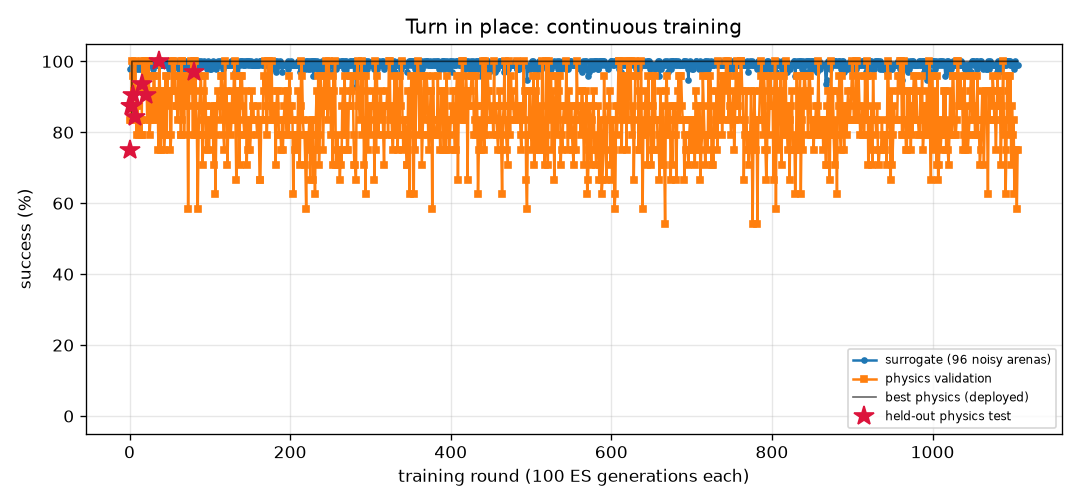
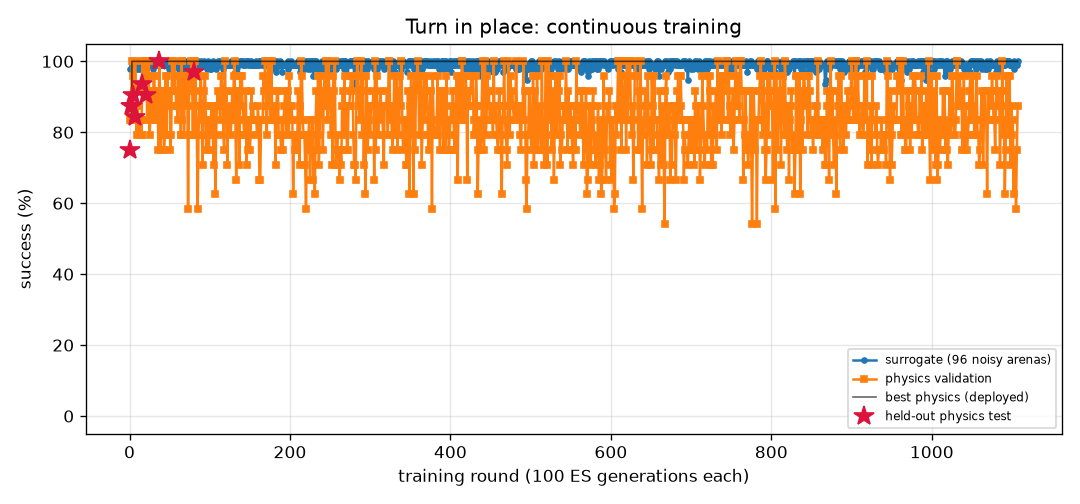
FlyLab: continuous training progress
- walk_forward: optimal, physics val 100% of 24, round 405
- turn: optimal, physics val 100% of 24, round 1107
- goto: optimal, physics val 100% of 24, round 313
- odor_seek: optimal, physics val 100% of 24, round 254
- odor_avoid: optimal, physics val 100% of 24, round 961
- light_seek: optimal, physics val 100% of 24, round 514
- light_avoid: optimal, physics val 100% of 24, round 680

diff --git a/projects/09_flylab/training/light_avoid/REPORT.md b/projects/09_flylab/training/light_avoid/REPORT.md
@@ -1,14 +1,14 @@
 # Hide from light (`light_avoid`) — training report
 
-*Auto-generated by `train_brains.py`, last updated 2026-11-16T20:20:34.*
+*Auto-generated by `train_brains.py`, last updated 2026-11-17T22:11:09.*
 
 ![curve](curve.png)
 
 | | |
 |---|---|
-| rounds | 674 |
-| ES generations | 67400 |
-| physics runs | 16448 |
+| rounds | 680 |
+| ES generations | 68000 |
+| physics runs | 16592 |
 | status | **optimal** |
 | best brain | round 159: physics validation **100%** on 24 arenas, surrogate 100% |
 | held-out physics test | **100%** on 32 unseen arenas (95% CI 89%-100%) (errors: [14.4, 56.1, 58.0, 57.9, 57.5, 14.0, 14.4, 56.6, 56.8, 13.3, 14.1, 56.6, 57.6, 13.1, 57.3, 55.9, 57.2, 55.0, 55.2, 53.9, 55.2, 12.4, 53.8, 53.7, 14.1, 13.7, 55.0, 57.8, 56.2, 13.1, 52.8, 56.5]) |
@@ -17,12 +17,6 @@ Physics error per arena: mm gained away from source (> 6 without first approachi
 
 | round | level | gens | sigma | surrogate | physics val | val errors | test | note |
 |---:|---:|---:|---:|---:|---:|---|---:|---|
-| 635 | 3 | 63500 | 0.025 | 97% | 96% | [49.8, 51.0, 50.9, 48.6, 49.5, 48.7, 49.9, 14.5, 13.0, 13.4, 10.3, 49.2, 14.4, 8.0, 50.8, 49.3, 14.2, 49.9, 51.2, 14.4, 48.8, 11.3, 49.6, 48.4] |  | restart from best |
-| 636 | 3 | 63600 | 0.024 | 100% | 100% | [51.2, 52.5, 52.3, 51.2, 52.4, 51.7, 50.6, 14.5, 48.7, 13.2, 52.0, 52.2, 14.4, 51.7, 52.4, 51.0, 14.2, 52.7, 52.8, 14.4, 49.6, 52.1, 50.5, 51.7] |  |  |
-| 637 | 3 | 63700 | 0.024 | 100% | 100% | [43.7, 46.3, 46.3, 45.5, 48.5, 45.3, 43.8, 14.5, 48.1, 13.2, 48.7, 48.9, 14.4, 48.2, 46.2, 45.0, 14.2, 48.4, 46.4, 14.4, 44.8, 49.3, 44.1, 48.5] |  |  |
-| 638 | 3 | 63800 | 0.024 | 100% | 100% | [33.4, 32.5, 31.0, 34.7, 34.6, 34.0, 30.7, 14.5, 12.6, 13.3, 38.2, 34.3, 14.4, 36.4, 32.7, 36.6, 14.2, 34.9, 32.5, 14.4, 35.9, 36.7, 29.7, 34.6] |  |  |
-| 639 | 3 | 63900 | 0.024 | 99% | 100% | [38.8, 39.9, 38.9, 42.0, 42.7, 39.2, 36.6, 14.5, 13.0, 13.4, 43.0, 42.8, 14.4, 43.1, 39.8, 41.4, 14.2, 43.1, 38.8, 14.4, 37.9, 43.2, 37.8, 43.2] |  | restart from best |
-| 640 | 3 | 64000 | 0.024 | 100% | 100% | [46.1, 49.8, 49.5, 47.3, 50.5, 48.2, 47.9, 14.5, 46.6, 13.4, 49.1, 50.5, 14.4, 49.1, 49.6, 48.0, 14.2, 50.8, 49.8, 14.4, 47.1, 48.9, 48.1, 50.1] |  |  |
 | 641 | 3 | 64100 | 0.024 | 100% | 100% | [53.5, 55.6, 55.3, 53.5, 54.9, 54.0, 54.0, 14.5, 52.3, 13.1, 54.9, 54.6, 14.4, 53.2, 55.4, 52.9, 14.2, 55.3, 55.7, 14.4, 52.4, 54.4, 53.9, 54.1] |  |  |
 | 642 | 3 | 64200 | 0.024 | 100% | 100% | [54.9, 56.3, 56.0, 54.9, 56.0, 55.2, 54.8, 14.5, 52.4, 13.2, 55.7, 55.9, 14.4, 55.4, 56.2, 54.8, 14.2, 56.5, 56.6, 14.4, 53.1, 55.9, 54.4, 55.4] |  |  |
 | 643 | 3 | 64300 | 0.024 | 100% | 100% | [42.6, 44.8, 43.4, 44.2, 46.8, 44.2, 42.3, 14.5, 42.7, 13.4, 46.1, 47.1, 14.4, 46.7, 44.5, 45.2, 14.2, 46.7, 44.7, 14.4, 46.4, 46.7, 42.4, 46.9] |  | restart from best |
@@ -57,3 +51,9 @@ Physics error per arena: mm gained away from source (> 6 without first approachi
 | 672 | 3 | 67200 | 0.024 | 100% | 100% | [54.5, 57.4, 57.3, 54.9, 55.3, 55.2, 56.7, 14.5, 48.7, 13.3, 50.2, 54.8, 14.4, 56.0, 57.4, 54.6, 14.2, 55.8, 57.7, 14.4, 53.6, 56.1, 56.4, 54.0] |  |  |
 | 673 | 3 | 67300 | 0.024 | 100% | 100% | [54.3, 53.4, 53.0, 51.4, 55.0, 51.2, 51.3, 14.5, 52.9, 12.7, 55.1, 55.2, 14.4, 53.2, 52.8, 52.1, 14.2, 55.1, 53.0, 14.4, 53.0, 55.3, 51.3, 54.7] |  |  |
 | 674 | 3 | 67400 | 0.024 | 100% | 100% | [57.7, 61.2, 60.9, 57.9, 60.5, 58.7, 59.8, 14.5, 54.7, 13.5, 59.7, 60.3, 14.4, 57.5, 61.1, 57.8, 14.2, 61.0, 61.5, 14.4, 56.8, 59.9, 59.6, 59.7] |  |  |
+| 675 | 3 | 67500 | 0.024 | 100% | 100% | [49.9, 52.8, 52.6, 50.1, 52.4, 51.6, 51.4, 14.5, 48.1, 13.3, 52.5, 52.3, 14.4, 51.1, 52.7, 49.3, 14.2, 53.1, 53.2, 14.4, 48.9, 52.4, 51.3, 51.7] |  | restart from best |
+| 676 | 3 | 67600 | 0.024 | 100% | 100% | [41.9, 44.1, 43.0, 42.9, 45.1, 42.3, 39.1, 14.5, 40.3, 13.5, 44.8, 45.3, 14.4, 44.5, 43.1, 42.5, 14.2, 45.2, 43.3, 14.4, 43.3, 44.9, 41.0, 45.0] |  |  |
+| 677 | 3 | 67700 | 0.024 | 100% | 100% | [53.9, 58.8, 58.5, 54.7, 58.8, 55.5, 57.1, 14.5, 52.5, 13.3, 57.0, 58.6, 14.4, 57.5, 58.9, 53.8, 14.2, 59.2, 59.2, 14.4, 51.9, 57.0, 57.1, 58.1] |  |  |
+| 678 | 3 | 67800 | 0.024 | 100% | 100% | [53.1, 56.4, 56.2, 53.6, 54.7, 54.4, 55.4, 14.5, 51.5, 13.5, 54.8, 54.4, 14.4, 56.1, 56.3, 54.3, 14.2, 55.4, 56.6, 14.4, 53.1, 54.6, 55.0, 53.7] |  |  |
+| 679 | 3 | 67900 | 0.024 | 100% | 100% | [58.1, 59.9, 59.7, 55.7, 59.6, 56.8, 58.5, 14.5, 55.7, 13.3, 59.3, 59.5, 14.4, 56.8, 60.0, 56.6, 14.2, 60.2, 60.4, 14.4, 57.0, 58.8, 58.1, 58.9] |  | restart from best |
+| 680 | 3 | 68000 | 0.024 | 100% | 100% | [56.6, 61.2, 61.0, 58.1, 60.3, 58.1, 59.8, 14.5, 10.0, 13.3, 60.2, 60.1, 14.4, 57.7, 61.1, 58.0, 14.2, 60.9, 61.5, 14.4, 57.6, 60.1, 59.6, 59.4] |  |  |

diff --git a/projects/09_flylab/training/odor_avoid/REPORT.md b/projects/09_flylab/training/odor_avoid/REPORT.md
@@ -1,14 +1,14 @@
 # Escape a bad smell (`odor_avoid`) — training report
 
-*Auto-generated by `train_brains.py`, last updated 2026-11-16T22:49:45.*
+*Auto-generated by `train_brains.py`, last updated 2026-11-17T22:04:00.*
 
 ![curve](curve.png)
 
 | | |
 |---|---|
-| rounds | 955 |
-| ES generations | 95500 |
-| physics runs | 20226 |
+| rounds | 961 |
+| ES generations | 96100 |
+| physics runs | 20370 |
 | status | **optimal** |
 | best brain | round 373: physics validation **100%** on 24 arenas, surrogate 97% |
 | held-out physics test | **97%** on 32 unseen arenas (95% CI 84%-99%) (errors: [62.0, 57.4, 62.6, 61.9, 59.0, 61.6, 56.5, 60.7, 31.7, 60.9, 63.1, 57.1, 61.1, 62.1, 61.5, 60.2, 62.2, 55.2, 62.1, 54.2, 61.3, 62.0, 58.0, 61.9, 59.8, 56.5, 56.3, 56.4, 56.3, 57.7, 61.9, 32.4]) |
@@ -17,12 +17,6 @@ Physics error per arena: mm gained away from source (> 6 without first approachi
 
 | round | level | gens | sigma | surrogate | physics val | val errors | test | note |
 |---:|---:|---:|---:|---:|---:|---|---:|---|
-| 916 | 3 | 91600 | 0.027 | 98% | 100% | [61.1, 59.0, 55.2, 60.3, 59.1, 59.0, 61.7, 58.5, 61.0, 29.8, 28.4, 60.9, 47.0, 53.6, 9.1, 41.7, 61.0, 38.6, 52.4, 56.5, 61.3, 57.3, 59.1, 59.7] |  |  |
-| 917 | 3 | 91700 | 0.025 | 88% | 92% | [61.7, 54.4, 56.4, 54.4, 61.9, 60.4, 60.0, 3.3, 61.1, 52.7, 61.7, 62.3, 52.0, 56.0, 38.7, 62.2, 61.8, 61.4, 55.0, 54.8, 61.9, 15.3, 56.5, 21.1] |  | restart from best |
-| 918 | 3 | 91800 | 0.026 | 94% | 96% | [62.5, 58.3, 56.8, 61.3, 60.5, 60.0, 61.6, 41.4, 61.6, 60.6, 59.8, 61.2, 47.8, 55.7, 36.3, 61.0, 61.5, 57.9, 52.2, 59.4, 61.6, 53.3, 60.2, 52.4] |  |  |
-| 919 | 3 | 91900 | 0.028 | 95% | 96% | [62.4, 60.8, 55.5, 60.1, 60.9, 60.7, 62.1, 62.5, 61.9, 56.7, 50.8, 61.3, 49.4, 55.5, 42.4, 60.2, 61.4, 60.7, 49.3, 57.2, 61.5, 63.1, 60.2, 63.3] |  |  |
-| 920 | 3 | 92000 | 0.027 | 96% | 96% | [63.3, 59.7, 57.0, 59.7, 61.9, 61.5, 60.7, 58.8, 61.1, 60.9, 61.7, 61.0, 54.7, 56.2, 44.5, 61.7, 61.6, 61.3, 55.1, 55.0, 61.7, 60.9, 59.3, 61.6] |  |  |
-| 921 | 3 | 92100 | 0.026 | 96% | 96% | [60.7, 59.0, 55.4, 55.8, 61.8, 60.9, 61.4, 62.2, 61.5, 59.9, 57.8, 61.4, 47.1, 55.1, 26.5, 62.2, 61.1, 60.7, 52.8, 58.1, 61.2, 62.0, 59.6, 63.0] |  | restart from best |
 | 922 | 3 | 92200 | 0.026 | 98% | 96% | [63.9, 61.0, 57.4, 58.2, 62.3, 62.6, 61.8, 56.9, 60.0, 60.6, 62.1, 61.7, 55.1, 58.4, 39.9, 61.2, 62.1, 61.1, 55.1, 57.9, 62.1, 61.5, 59.1, 61.1] |  |  |
 | 923 | 3 | 92300 | 0.025 | 94% | 100% | [62.9, 60.7, 58.4, 61.2, 58.2, 51.8, 61.2, 58.9, 61.5, 34.1, 56.7, 59.6, 52.0, 55.2, 31.0, 60.2, 60.6, 47.2, 52.2, 60.7, 60.3, 46.1, 59.7, 62.4] |  |  |
 | 924 | 3 | 92400 | 0.028 | 95% | 100% | [63.0, 60.6, 58.0, 55.1, 61.5, 62.1, 61.1, 61.8, 60.1, 61.7, 60.9, 60.7, 52.8, 57.8, 50.8, 61.5, 59.5, 61.7, 53.5, 57.6, 60.6, 62.2, 57.9, 60.6] |  |  |
@@ -57,3 +51,9 @@ Physics error per arena: mm gained away from source (> 6 without first approachi
 | 953 | 3 | 95300 | 0.026 | 93% | 100% | [28.2, 53.6, 57.7, 53.5, 61.4, 61.5, 59.6, 61.2, 59.9, 61.9, 59.7, 60.7, 51.8, 56.8, 52.0, 61.6, 60.5, 62.2, 52.3, 54.5, 60.0, 61.6, 57.2, 60.9] |  | restart from best |
 | 954 | 3 | 95400 | 0.026 | 98% | 96% | [62.7, 60.8, 56.3, 59.7, 61.8, 62.0, 62.1, 23.2, 62.0, 52.2, 61.5, 62.0, 55.1, 56.2, 41.0, 61.2, 61.9, 60.8, 55.3, 60.0, 62.4, 54.8, 57.1, 39.1] |  |  |
 | 955 | 3 | 95500 | 0.025 | 94% | 96% | [60.5, 59.3, 56.0, 59.6, 61.7, 60.2, 61.5, 3.8, 61.9, 18.9, 61.3, 61.6, 55.0, 55.8, 51.1, 60.7, 61.8, 59.4, 54.8, 56.8, 61.1, 22.9, 58.8, 17.3] |  |  |
+| 956 | 3 | 95600 | 0.028 | 94% | 96% | [59.8, 59.1, 56.6, 59.5, 62.0, 60.9, 61.0, 61.4, 61.1, 60.6, 61.4, 61.7, 54.8, 56.7, 52.0, 61.2, 61.6, 60.7, 54.2, 55.8, 61.5, 61.8, 59.7, 61.0] |  |  |
+| 957 | 3 | 95700 | 0.028 | 98% | 96% | [62.4, 57.1, 56.6, 59.4, 62.2, 62.4, 60.3, 48.5, 61.6, 62.0, 61.7, 61.3, 52.2, 56.5, 42.9, 61.3, 62.1, 61.6, 52.8, 56.6, 62.0, 62.4, 59.7, 60.5] |  | restart from best |
+| 958 | 3 | 95800 | 0.026 | 97% | 100% | [63.5, 57.7, 58.1, 61.2, 62.6, 61.9, 61.8, 41.7, 60.3, 60.3, 61.8, 61.0, 54.6, 58.3, 38.2, 61.6, 61.9, 60.7, 55.1, 55.3, 61.7, 60.2, 58.4, 58.1] |  |  |
+| 959 | 3 | 95900 | 0.026 | 97% | 96% | [61.1, 58.5, 56.1, 58.6, 60.3, 60.8, 59.6, 31.2, 60.6, 50.7, 56.5, 60.2, 51.2, 56.3, 37.9, 59.3, 61.0, 60.2, 54.3, 58.6, 60.5, 58.7, 58.4, 54.6] |  |  |
+| 960 | 3 | 96000 | 0.026 | 95% | 96% | [60.4, 57.2, 54.9, 58.8, 59.9, 59.2, 59.1, 44.5, 59.5, 59.4, 60.0, 59.8, 53.6, 55.1, 47.1, 59.5, 59.7, 59.7, 53.7, 55.2, 59.9, 58.2, 57.3, 57.7] |  |  |
+| 961 | 3 | 96100 | 0.027 | 96% | 92% | [59.0, 57.6, 54.0, 57.9, 58.5, 58.7, 58.7, 46.7, 59.2, 56.7, 57.1, 58.7, 50.4, 50.8, 35.2, 57.7, 59.0, 59.2, 48.1, 56.3, 58.8, 55.7, 56.9, 56.7] |  | restart from best |

diff --git a/projects/09_flylab/training/turn/REPORT.md b/projects/09_flylab/training/turn/REPORT.md
@@ -1,14 +1,14 @@
 # Turn in place (`turn`) — training report
 
-*Auto-generated by `train_brains.py`, last updated 2026-11-17T21:09:16.*
+*Auto-generated by `train_brains.py`, last updated 2026-11-17T21:16:02.*
 
 ![curve](curve.png)
 
 | | |
 |---|---|
-| rounds | 1106 |
-| ES generations | 110600 |
-| physics runs | 26790 |
+| rounds | 1107 |
+| ES generations | 110700 |
+| physics runs | 26814 |
 | status | **optimal** |
 | best brain | round 80: physics validation **100%** on 24 arenas, surrogate 100% |
 | held-out physics test | **97%** on 32 unseen arenas (95% CI 84%-99%) (errors: [1.6, 3.3, 6.3, 3.7, 1.1, 0.4, 2.4, 2.9, 0.1, 2.6, 0.5, 2.7, 1.5, 3.1, 4.5, 0.2, 0.5, 1.1, 2.0, 4.4, 2.8, 3.2, 0.3, 2.2, 0.5, 3.0, 0.3, 5.4, 0.4, 1.0, 4.7, 10.7]) |
@@ -17,7 +17,6 @@ Physics error per arena: deg from target heading (< 20 = success).
 
 | round | level | gens | sigma | surrogate | physics val | val errors | test | note |
 |---:|---:|---:|---:|---:|---:|---|---:|---|
-| 1067 | 3 | 106700 | 0.025 | 99% | 83% | [9.6, 10.8, 3.7, 1.9, 6.7, 7.1, 3.7, 8.0, 1.1, 0.2, 2.8, 4.4, 2.1, 4.8, 2.2, 2.5, 4.4, 0.4, 0.9, 2.1, 8.3, 0.5, 2.0, 0.6] |  |  |
 | 1068 | 3 | 106800 | 0.025 | 98% | 83% | [3.5, 1.4, 5.0, 0.8, 2.5, 0.1, 6.4, 8.3, 6.2, 1.3, 5.6, 1.0, 2.3, 1.8, 4.7, 0.8, 1.0, 1.9, 0.9, 1.1, 5.2, 2.6, 6.9, 6.9] |  | restart from best |
 | 1069 | 3 | 106900 | 0.024 | 100% | 62% | [4.2, 0.3, 2.8, 0.7, 2.1, 0.0, 5.8, 2.7, 3.5, 0.5, 5.7, 0.1, 1.1, 2.7, 5.1, 0.5, 0.4, 5.1, 1.3, 0.5, 7.6, 2.2, 6.5, 5.2] |  |  |
 | 1070 | 3 | 107000 | 0.024 | 98% | 92% | [9.3, 11.0, 6.5, 6.1, 2.8, 4.0, 2.1, 2.0, 1.8, 2.8, 2.2, 3.9, 4.1, 2.9, 1.8, 1.6, 3.5, 1.2, 1.1, 3.4, 8.1, 0.6, 2.6, 1.7] |  |  |
@@ -57,3 +56,4 @@ Physics error per arena: deg from target heading (< 20 = success).
 | 1104 | 3 | 110400 | 0.024 | 99% | 75% | [9.7, 12.4, 7.9, 3.3, 7.4, 5.7, 1.6, 10.0, 1.5, 3.4, 2.1, 5.9, 2.2, 5.1, 0.3, 3.7, 4.9, 2.0, 3.7, 3.5, 8.3, 2.8, 1.7, 0.9] |  | restart from best |
 | 1105 | 3 | 110500 | 0.024 | 99% | 58% | [4.5, 2.1, 2.8, 1.5, 1.0, 3.4, 7.4, 2.3, 4.9, 1.6, 4.8, 0.9, 0.1, 4.5, 5.2, 0.2, 1.0, 0.5, 0.1, 0.0, 6.7, 1.4, 5.4, 7.2] |  |  |
 | 1106 | 3 | 110600 | 0.025 | 99% | 75% | [1.0, 6.0, 7.3, 1.8, 1.0, 116.5, 8.3, 11.4, 8.8, 1.7, 7.2, 2.9, 0.2, 0.5, 7.0, 4.2, 4.1, 4.1, 5.2, 7.7, 1.9, 3.7, 8.5, 8.3] |  |  |
+| 1107 | 3 | 110700 | 0.025 | 100% | 88% | [3.2, 8.7, 9.7, 6.5, 2.7, 5.6, 9.2, 8.1, 9.6, 4.2, 7.7, 6.8, 5.0, 3.5, 6.9, 4.5, 7.2, 6.5, 3.9, 5.4, 1.6, 6.1, 9.0, 9.3] |  |  |

diff --git a/projects/09_flylab/training/TRAINING.md b/projects/09_flylab/training/TRAINING.md
@@ -1,15 +1,15 @@
 # FlyLab brains — continuous training log
 
-*Auto-generated by `train_brains.py`, last updated 2026-11-17T21:09:36.*
+*Auto-generated by `train_brains.py`, last updated 2026-11-17T22:11:09.*
 
 Every skill has its own brain and its own training process: surrogate ES rounds, physics validation in MuJoCo, keep-the-best selection, and a held-out physics test that is never used for selection. See each skill's report for its full round-by-round history. Mastery is progressive: passing a level (100% physics validation, >=95% surrogate) doubles the validation and test arena sets; a brain is **optimal** once it holds up at level 3 (>=95% of 24 validation arenas) AND scores >=90% on the 32 held-out test arenas. Test columns show 95% Wilson confidence intervals.
 
 | skill | rounds | ES generations | physics runs | surrogate | physics val | **physics test** | status |
 |---|---:|---:|---:|---:|---:|---:|---|
 | [Walk forward](walk_forward/REPORT.md) | 405 | 40500 | 9734 | 100% | 100% of 24 | 100% of 32 (CI 89-100%) | **optimal** |
-| [Turn in place](turn/REPORT.md) | 1106 | 110600 | 26790 | 100% | 100% of 24 | 97% of 32 (CI 84-99%) | **optimal** |
+| [Turn in place](turn/REPORT.md) | 1107 | 110700 | 26814 | 100% | 100% of 24 | 97% of 32 (CI 84-99%) | **optimal** |
 | [Go to a location](goto/REPORT.md) | 313 | 31300 | 7462 | 100% | 100% of 24 | 100% of 32 (CI 89-100%) | **optimal** |
 | [Find food by smell](odor_seek/REPORT.md) | 254 | 25400 | 5590 | 100% | 100% of 24 | 100% of 32 (CI 89-100%) | **optimal** |
-| [Escape a bad smell](odor_avoid/REPORT.md) | 955 | 95500 | 20226 | 97% | 100% of 24 | 97% of 32 (CI 84-99%) | **optimal** |
+| [Escape a bad smell](odor_avoid/REPORT.md) | 961 | 96100 | 20370 | 97% | 100% of 24 | 97% of 32 (CI 84-99%) | **optimal** |
 | [Walk toward light](light_seek/REPORT.md) | 514 | 51400 | 9216 | 100% | 100% of 24 | 100% of 32 (CI 89-100%) | **optimal** |
-| [Hide from light](light_avoid/REPORT.md) | 674 | 67400 | 16448 | 100% | 100% of 24 | 100% of 32 (CI 89-100%) | **optimal** |
+| [Hide from light](light_avoid/REPORT.md) | 680 | 68000 | 16592 | 100% | 100% of 24 | 100% of 32 (CI 89-100%) | **optimal** |
